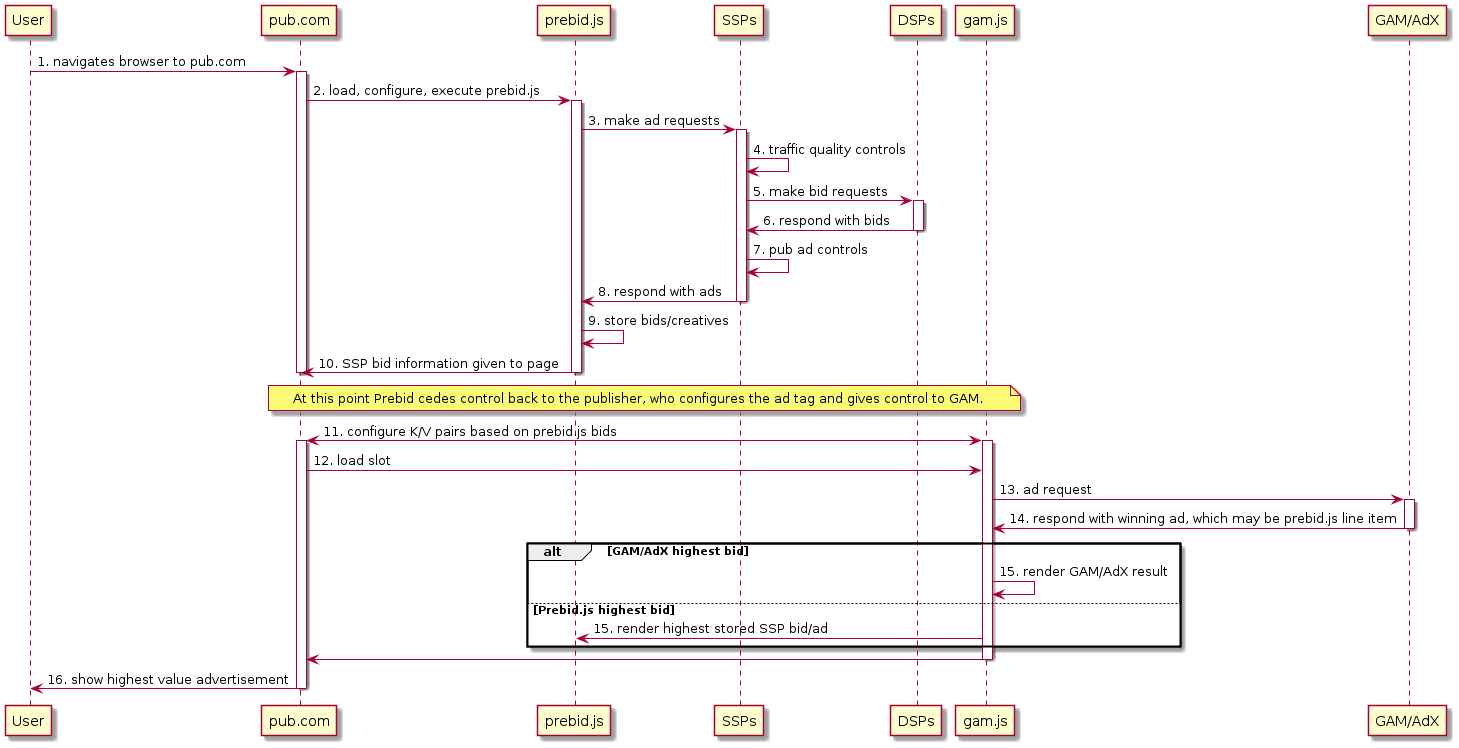
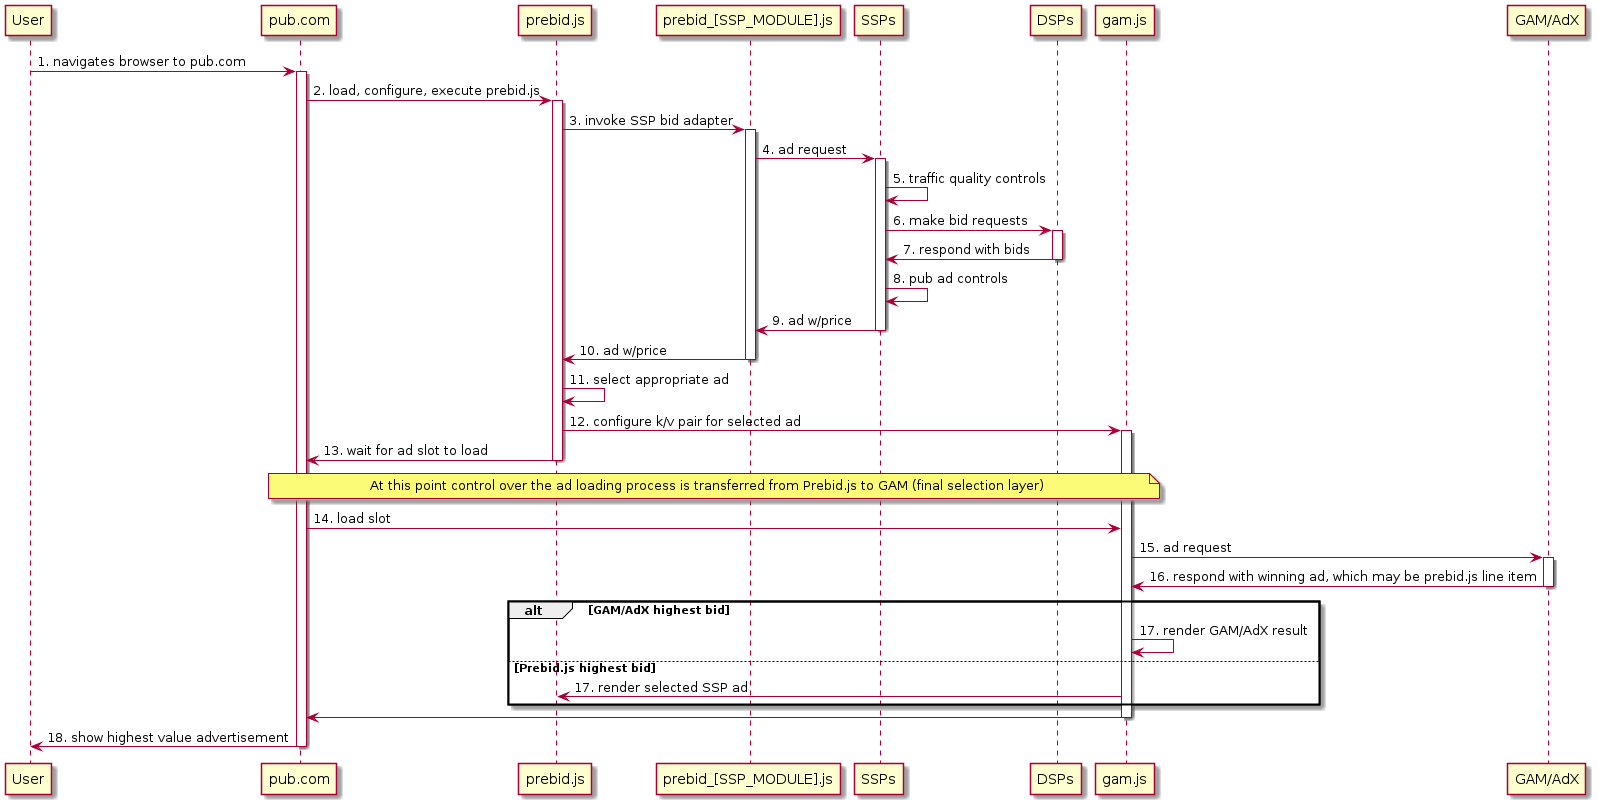
Updates charts, more words. Nowhere near done.

diff --git a/README.md b/README.md
@@ -1,1 +1,102 @@
 # prebid-td
+An exploration of the role Prebid can play in a TurtleDove world.
+
+# Birth of Header Bidding
+As DFP (now GAM) became the dominant ad server (with tight AdX integration) publishers wanted a way to have other demand sources compete in the GAM/AdX ad selection process. While GAM/AdX didn't provide an API to do this, publishers did have the ability create their own line items in DFP that were considered in the selection process. Futhermore, they could activate these line items based on key/value pairs added to the DFP tag invocation. The final step was figuring out how to solicit an independent SSP and map their bid to the right key/value. Soliciting the SSP in the header of the page allowed the bid to be retrieved and mapped to a key/value before the DFP ad slot was fetched. And thus header bidding was born.
+
+# Birth of Prebid.js
+Publishers saw a significant benefit from having a single SSP compete with DFP/AdX and the logical next step was to have multiple SSPs compete. While SSPs provided libraries that made it easy to do header bidding, they all had their own implementation and they weren't designed to work well together. Furthermore, there were different strategies for creating line items, mapping k/v pairs to line items, naming line items, and the creative that triggered the serving of a cached SSP creative. Very sophisticated publishers were capable of writing their own javascript solutions that managed these complexities, as well as paying for AdOps folks to manage the setup in DFP, but it was error prone and expensive. Prebid.js provided a standardized way of integrating with DFP, the publisher's page, and SSPs, who provided adapters that mapped their ad calls and bids to the Prebid standard.
+
+# Why Prebid.js works
+## ... for Publishers
+Publishers (and adtech in general) must contend with the fact that ad selection happens at multiple levels. DSPs perform ad selection from among all eligible campaigns they represent. SSPs perform ad selection from all DSPs that responded to a bid request. A publisher does selection from among all SSPs that responded to it. Prebid.js works because SSPs are able to provide publishers with a realtime signal of what an ad slot is worth.
+
+However, GAM does not provide this information to a publisher in realtime - it merely runs an auction and returns the winning ad. Due to this lack of price signal GAM must necessarily be the final level of ad selection.
+
+*Header bidding/Prebid.js has been extremely successful because it provides a way to funnel SSP price signals into the final selection layer.* It enabled pubilshers to retain control of their business models without being beholden to a single technology vendor (to some extent).
+
+**Prebid.js works for publishers because it enables greater competition and avoids vendor lock-in.**
+
+## ... for SSPs
+Any entity in competition with another entity wants to know that the playing field is level - it does not unfairly advantage a competitor. Prebid.js provides this assurance to SSPs in several ways:
+
+First, the code that runs the on-page auction is open-source and also running in the open simply by virtue of the way javascript on the browser works (obfuscation not withstanding). This is a very high level of transparency.
+
+Second, SSPs can develop their own adapters. The part of Prebid.js that is SSP specific is under the control of the SSP itself (though still open-source). SSPs can develop their own adapters to function optimally in the Prebid.js world.
+
+Third, Prebid.js is run by an independent organization that has representation from various SSPs. While not a technology solution, it provides assurance that participants will be held accountable for their actions.
+
+In short, **Prebid.js works for SSPs because there is transparency, control, and accountability.**
+
+# Prebid.js Today
+This sequence diagram attempts to illustrate how Prebid.js functions today.
+
+![Prebid Sequence Diagram](out/prebid_statusquo/prebid_statusquo.png)
+
+1. A user navigates to a publisher site
+2. The publisher page loads and configures prebid.js
+3. prebid.js invokes SSP adapter for participating SSPs
+4. SSP adapter issues an ad request to the SSP
+5. SSPs do traffic quality evaluation (and may short circuit if they deem the traffic fraudulent).
+6. SSPs solicit bids from eligible and interested DSPs
+7. DSPs respond with bids
+8. SSPs filter bids based on pub controls (e.g. ad quality)
+9. SSPs responds to the page/SSP adapter with a creative and a value.
+10. SSP adapter responds to Prebid.js with the SSPs creative and a value.
+11. Prebid.js selects the appropriate ad (may be auction, may not be)
+12. Prebid.js configures the appropriate k/v pairs for the selected ad
+13. Prebid.js returns control the page, where the pub initiates the loading of the GAM slot
+14. GAM ad tag is invoked.
+15. GAM ad tag calls GAM (and AdX, not OB due to their policies)
+16. GAM runs the final selection process, which includes line items activated by Prebid.js
+17. GAM creative is rendered regardless of outcome, but what is in that creative will vary:
+  - [GAM/AdX winner] In this situation the rendered ad tag is a creative sent via GAM/AdX.
+  - [Prebid.js winner] In this case the tag rendered from GAM was associated with a Prebid.js lineitem and it calls back into Prebid.js to render the earlier selected creative.
+
+While it is a technical detail to show the invocation of the `prebid_[SSP_MODULE].js` in the sequence diagram above, I felt it worth making explicit as it illustrates one of the principles noted above.
+
+Hopefully this diagram helps show how a Publisher using Prebid.js is able to integrate other SSPs into GAM which must be the final decision layer due to the reasons noted above (and others).
+
+# TurtleDove Impact on Ad Selection Process
+TurtleDove proposes a number of changes to how ad tech will function, but this document is only focused on the changes to the ad selection process.
+
+## TurtleDove as Final Selection Layer
+Today GAM insists on being the final ad selection layer. In a TurtleDove world Chrome insists on being the final ad selection layer. Like GAM, TurtleDove does not provide a price signal externally - only a binary yes/no on whether something rendered. (Aside: those that have been in adtech for a long time will remember the early ad networks and the proliferation of fallback tags and the ensuing fallback chains that were an attempt to optimize binary demand sources... and most likely you experienced an involuntary shudder.)
+
+If GAM must cede final selection to TurtleDove it raises some questions:
+* will they do so in a way that makes it easy for publishers to integrate other SSPs (by providing an API)?
+* will they do so in a way that makes it harder for other SSPs to integrate (by calling navigator.renderInterestGroupAd directly from their tag without allowing the publisher to customize the arguments)?
+
+
+## SSP No Longers Knows Value in Realtime
+Today SSPs able to provide publishers with a realtime valuation of an ad slot because they have contextual and user information in one request and are able to respond with a single *best* value in response to that request. In a TurtleDove world SSPs will only know the contextual value of the ad slot in realtime. The user value of an ad slot will be stored in the browser (if an IG ad request has been issued) and will never be known in realtime by the SSP, publisher, or any entity that's not behind the curtain of TurtleDove.
+
+While the TurtleDove author has said that they desire TurtleDove execute a local auction over SSP demand ([#73](https://github.com/WICG/turtledove/issues/73)), you can't do this if you're unwilling to provide a price signal back to the SSP.
+
+A simple implementation of this would be something like:
+```javascript
+// This can be thought of as an OpenRTB Bid Response
+let sspContextualOrtbBidResp = {
+    "adm": "...creative html...",
+    "price": 1.5,
+    ...
+}
+
+ // This could be thought of as an OpenRTR Bid Request
+let sspOrtbBidReq = {
+    "site": {
+        "ref": "https://reverb.com/",
+        "publisher": {
+            ...
+        }
+    }
+    ...
+}
+
+// This could be thought of as an OpenRTB Bid Request to an SSPs bid cache on the browser
+let sspRealtimeValue = navigator.resolveInterestGroupAd(sspContextualOrtbBidResp, sspOrtbBidReq)
+```
+
+At this point the SSP would know the value they provide to the publisher in realtime and be able to wrap this logic in their Prebid.js adapter and Prebid.js would function as it does today.
+
+However, TurtleDove views an IG based bid price to be a privacy attach vector so this approach isn't feasible. If this approach isn't feasible, I don't think it's possible to do an SSP local decision in TurtleDove.
